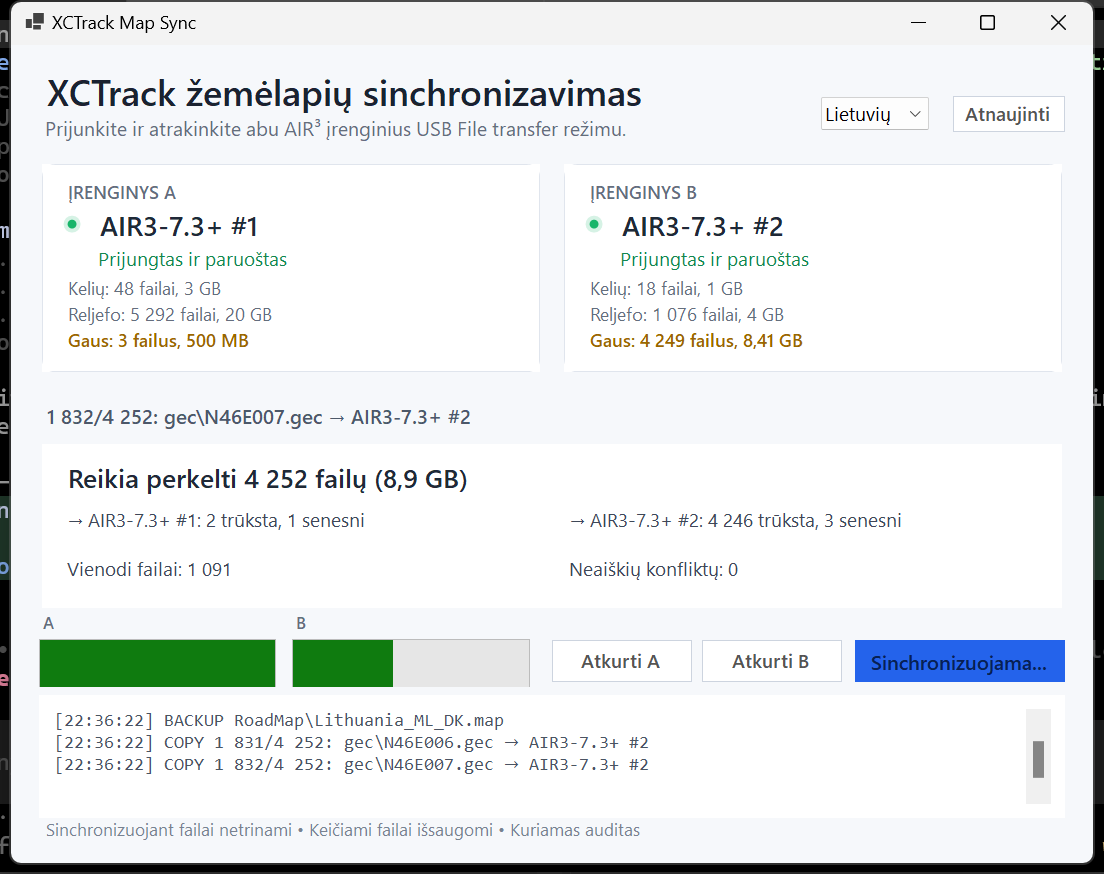
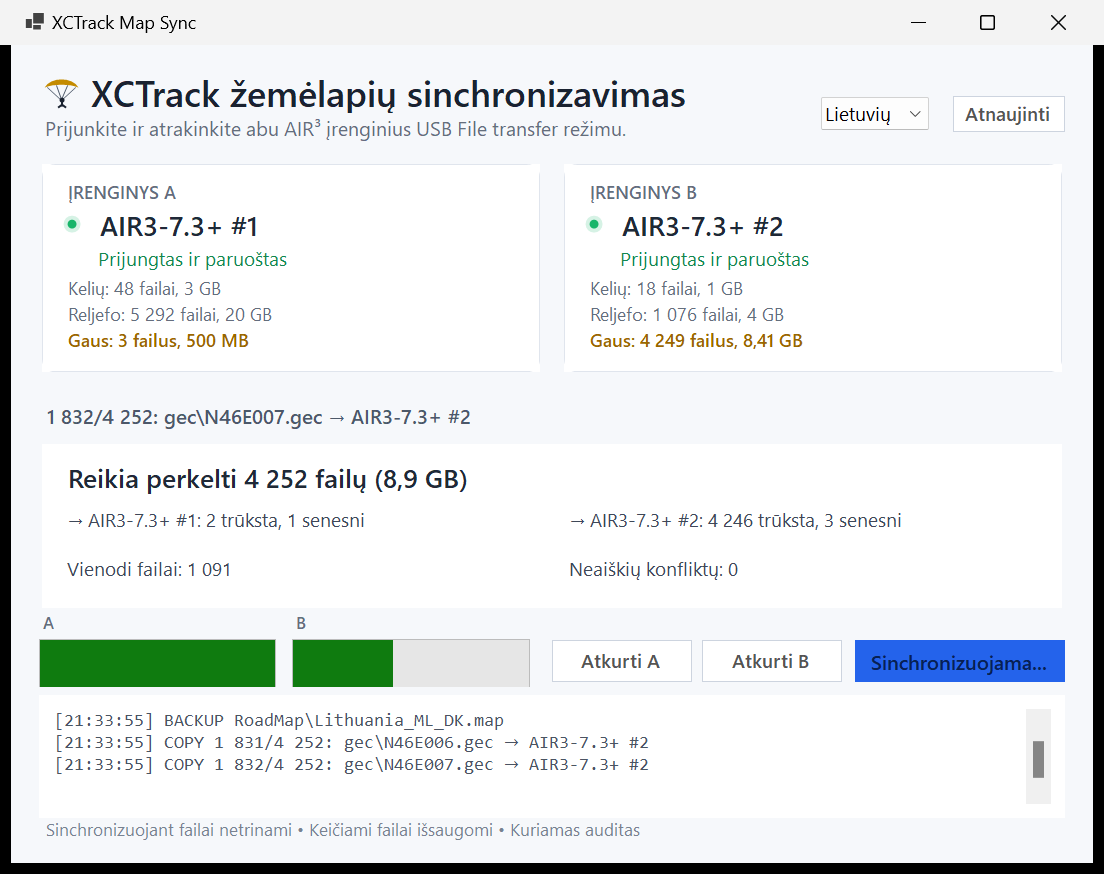
Add paraglider symbol and refresh screenshots

diff --git a/gui/MainForm.cs b/gui/MainForm.cs
@@ -1,5 +1,6 @@
 using System.Text.Json;
 using System.Globalization;
+using System.Drawing.Drawing2D;
 
 namespace XCTrackMapSync;
 
@@ -21,6 +22,7 @@ internal sealed class MainForm : Form
     private readonly DeviceCard _deviceA = new("Device A");
     private readonly DeviceCard _deviceB = new("Device B");
     private readonly Label _titleLabel = new();
+    private readonly Image _paragliderIcon = CreateParagliderIcon();
     private readonly Label _subtitleLabel = new();
     private readonly Label _footerLabel = new();
     private readonly ComboBox _languageCombo = new();
@@ -115,6 +117,7 @@ internal sealed class MainForm : Form
             await RefreshAndCompareAsync(showErrors: true);
         };
         FormClosing += (_, _) => _closing.Cancel();
+        FormClosed += (_, _) => _paragliderIcon.Dispose();
     }
 
     private void BuildInterface()
@@ -155,6 +158,27 @@ internal sealed class MainForm : Form
         _titleLabel.AutoEllipsis = true;
         _titleLabel.Margin = Padding.Empty;
 
+        var titlePanel = new TableLayoutPanel
+        {
+            Dock = DockStyle.Fill,
+            ColumnCount = 2,
+            RowCount = 1,
+            Margin = Padding.Empty,
+            Padding = Padding.Empty
+        };
+        titlePanel.ColumnStyles.Add(new ColumnStyle(SizeType.Absolute, 44));
+        titlePanel.ColumnStyles.Add(new ColumnStyle(SizeType.Percent, 100));
+        var paragliderPicture = new PictureBox
+        {
+            Dock = DockStyle.Fill,
+            Image = _paragliderIcon,
+            SizeMode = PictureBoxSizeMode.CenterImage,
+            Margin = Padding.Empty,
+            BackColor = Color.Transparent
+        };
+        titlePanel.Controls.Add(paragliderPicture, 0, 0);
+        titlePanel.Controls.Add(_titleLabel, 1, 0);
+
         _subtitleLabel.Dock = DockStyle.Fill;
         _subtitleLabel.Font = new Font("Segoe UI", 10f);
         _subtitleLabel.ForeColor = Color.FromArgb(100, 110, 125);
@@ -186,7 +210,7 @@ internal sealed class MainForm : Form
         _refreshButton.Margin = Padding.Empty;
         StyleSecondaryButton(_refreshButton);
         _refreshButton.Click += async (_, _) => await RefreshAndCompareAsync(showErrors: true, forceCompare: true);
-        header.Controls.Add(_titleLabel, 0, 0);
+        header.Controls.Add(titlePanel, 0, 0);
         header.Controls.Add(_subtitleLabel, 0, 1);
         header.Controls.Add(_languageCombo, 1, 0);
         header.SetRowSpan(_languageCombo, 2);
@@ -1671,5 +1695,33 @@ internal sealed class MainForm : Form
         button.ForeColor = Color.FromArgb(55, 65, 81);
         button.Font = new Font("Segoe UI Semibold", 9.5f);
         button.Cursor = Cursors.Hand;
+    }
+
+    private static Image CreateParagliderIcon()
+    {
+        var bitmap = new Bitmap(38, 34);
+        using var graphics = Graphics.FromImage(bitmap);
+        graphics.SmoothingMode = SmoothingMode.AntiAlias;
+
+        using var canopy = new GraphicsPath();
+        canopy.AddBezier(2, 12, 8, 1, 30, 1, 36, 12);
+        canopy.AddBezier(36, 12, 27, 8, 11, 8, 2, 12);
+        canopy.CloseFigure();
+        using var canopyBrush = new SolidBrush(Color.FromArgb(196, 139, 0));
+        graphics.FillPath(canopyBrush, canopy);
+
+        using var linePen = new Pen(Color.FromArgb(76, 88, 105), 1.4f);
+        graphics.DrawLine(linePen, 5, 12, 18, 24);
+        graphics.DrawLine(linePen, 33, 12, 20, 24);
+        graphics.DrawLine(linePen, 14, 10, 19, 24);
+        graphics.DrawLine(linePen, 25, 10, 19, 24);
+
+        using var pilotBrush = new SolidBrush(Color.FromArgb(26, 34, 48));
+        graphics.FillEllipse(pilotBrush, 17, 22, 5, 5);
+        using var pilotPen = new Pen(Color.FromArgb(26, 34, 48), 2f);
+        graphics.DrawLine(pilotPen, 19.5f, 26, 19.5f, 31);
+        graphics.DrawLine(pilotPen, 19.5f, 29, 15.5f, 32);
+        graphics.DrawLine(pilotPen, 19.5f, 29, 23.5f, 32);
+        return bitmap;
     }
 }
